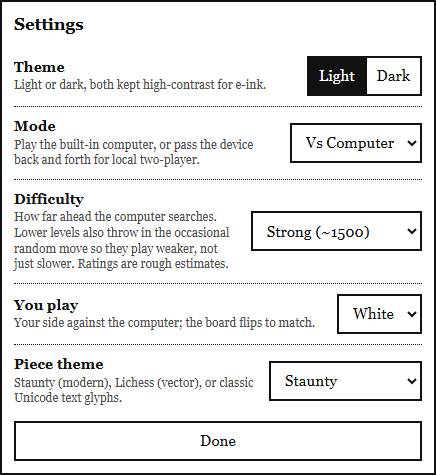
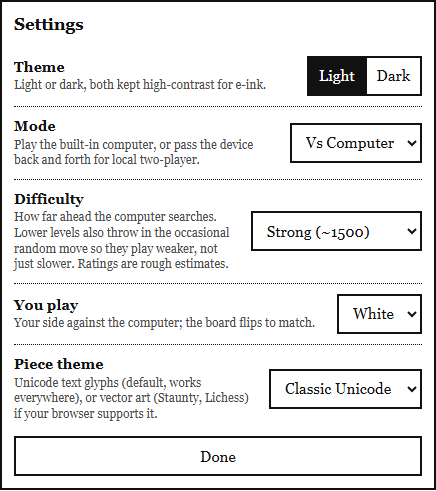
Move status into header, default to Unicode pieces, fix SVG sizing
- Move the status line into the header (between title and Refresh)
  so the board fits without scrolling on small e-ink screens.
- Default piece style back to Unicode text glyphs, the only rendering
  path confirmed working on the reported device (it's just text).
- Add explicit width/height to the piece SVGs (previously only had a
  viewBox), which some older WebKit engines need to size an SVG used
  as a CSS background image. Vector piece sets remain available in
  Settings for browsers that support them.
- Regenerate README screenshots to match.

diff --git a/index.html b/index.html
@@ -10,12 +10,11 @@
 
 <header class="app-header">
   <h1>Kindle Chess</h1>
+  <p class="status" id="status" aria-live="polite">White to move</p>
   <button id="refresh-screen" type="button" title="Clear e-ink ghosting">Refresh</button>
 </header>
 
 <main id="app-main">
-  <p class="status" id="status" aria-live="polite">White to move</p>
-
   <div class="board" id="board"></div>
 
   <div class="promotion" id="promotion" hidden>
@@ -97,12 +96,12 @@
   <div class="setting-item">
     <div class="setting-info">
       <div class="setting-title">Piece theme</div>
-      <div class="setting-desc">Staunty (modern), Lichess (vector), or classic Unicode text glyphs.</div>
+      <div class="setting-desc">Unicode text glyphs (default, works everywhere), or vector art (Staunty, Lichess) if your browser supports it.</div>
     </div>
     <select id="pieceset-select">
-      <option value="staunty" selected>Staunty</option>
+      <option value="unicode" selected>Classic Unicode</option>
+      <option value="staunty">Staunty</option>
       <option value="cburnett">Lichess (Vector)</option>
-      <option value="unicode">Classic Unicode</option>
     </select>
   </div>
 

diff --git a/css/style.css b/css/style.css
@@ -165,10 +165,15 @@ button:active {
 }
 
 .status {
+  flex: 1 1 auto;
+  min-width: 0;
   text-align: center;
-  min-height: 1.4em;
-  margin: 6px 0 10px;
-  font-size: 1.05rem;
+  margin: 0;
+  padding: 0 8px;
+  font-size: 0.85rem;
+  overflow: hidden;
+  text-overflow: ellipsis;
+  white-space: nowrap;
 }
 
 .board {

diff --git a/js/app.js b/js/app.js
@@ -44,7 +44,7 @@
   var mode = 'computer';
   var humanColor = 'w';
   var difficulty = DIFFICULTY_LEVELS['3'];
-  var pieceSet = 'staunty';
+  var pieceSet = 'unicode';
 
   /* 'play' | 'puzzle'. Settings is a separate overlay, not a third app mode —
      it never changes what the board is showing underneath. */
